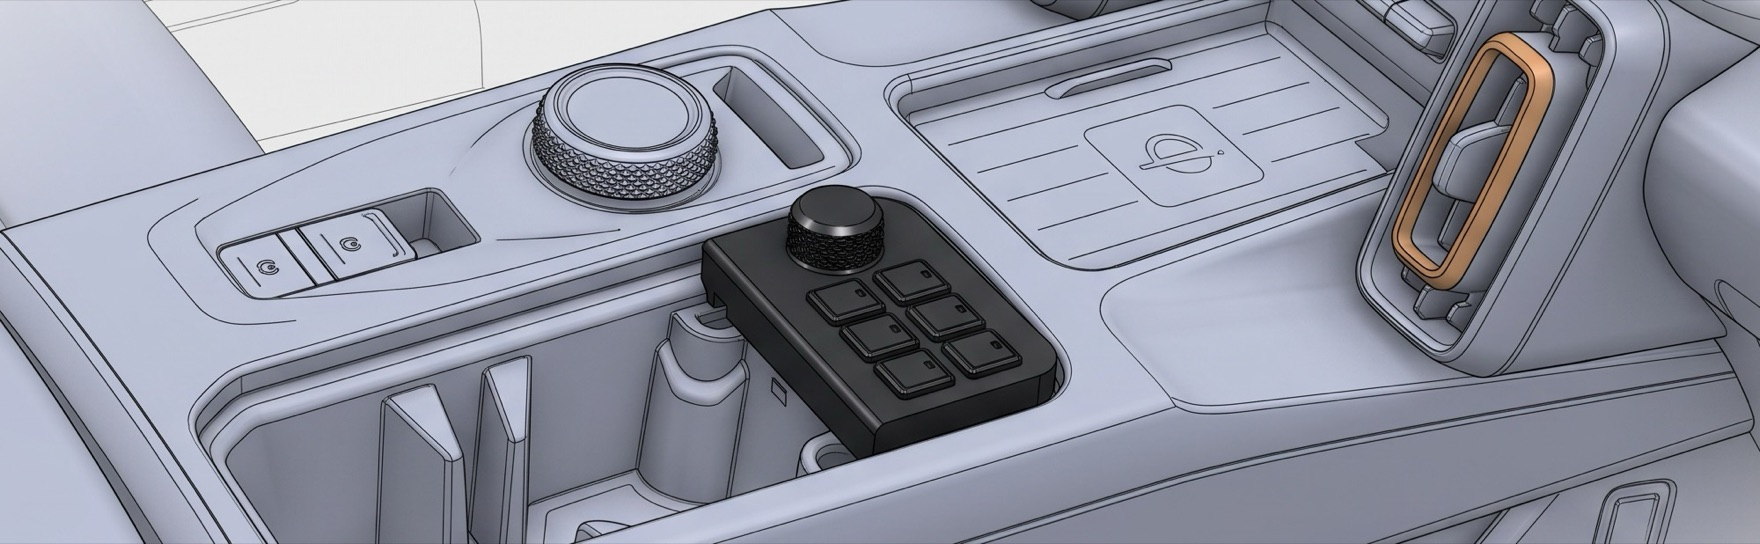
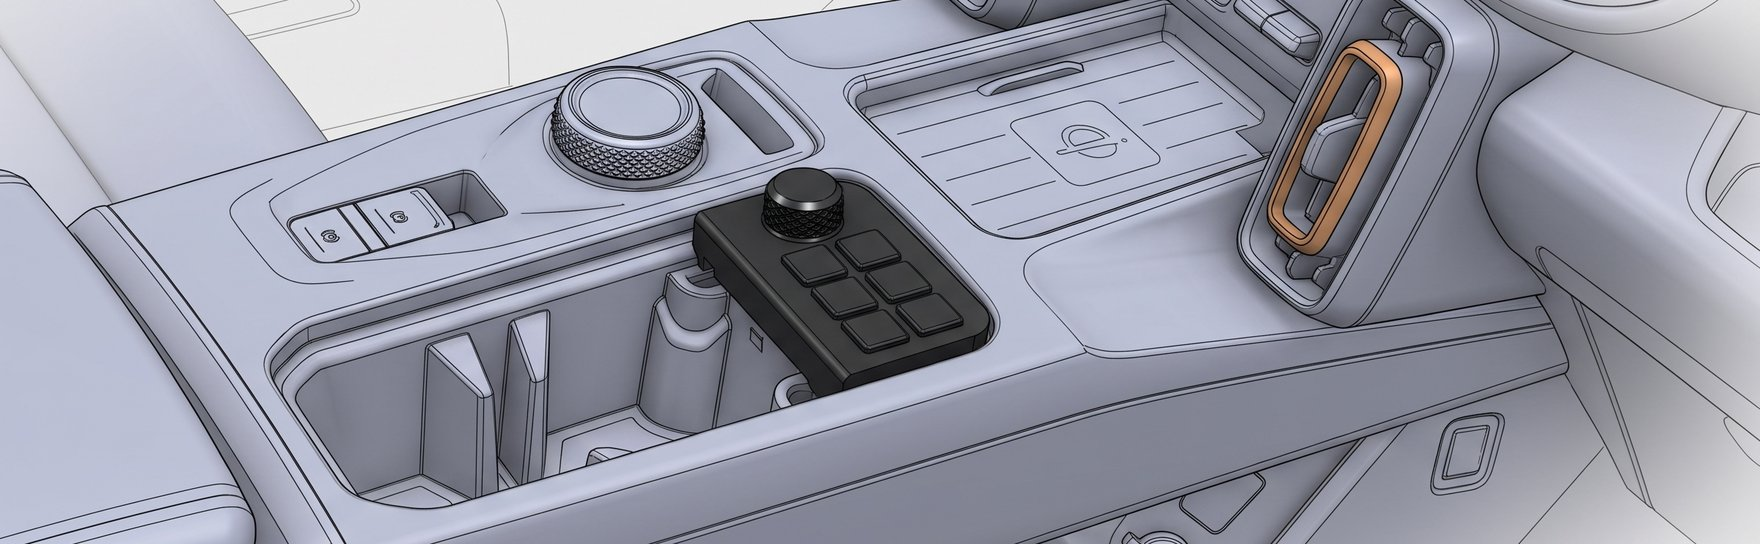
Обложка: панель в нише консоли вместо прежнего рендера

diff --git a/README.md b/README.md
@@ -1,4 +1,4 @@
-![Панель «Кнопыч» в нише перед подстаканниками Haval Dargo — CAD-рендер](docs/cover.jpg)
+![Иллюстрация: панель «Кнопыч» в нише перед подстаканниками Haval Dargo](docs/cover.jpg)
 
 # Кнопыч (Knopych) — физическая панель управления функциями комфорта Haval Dargo
 
